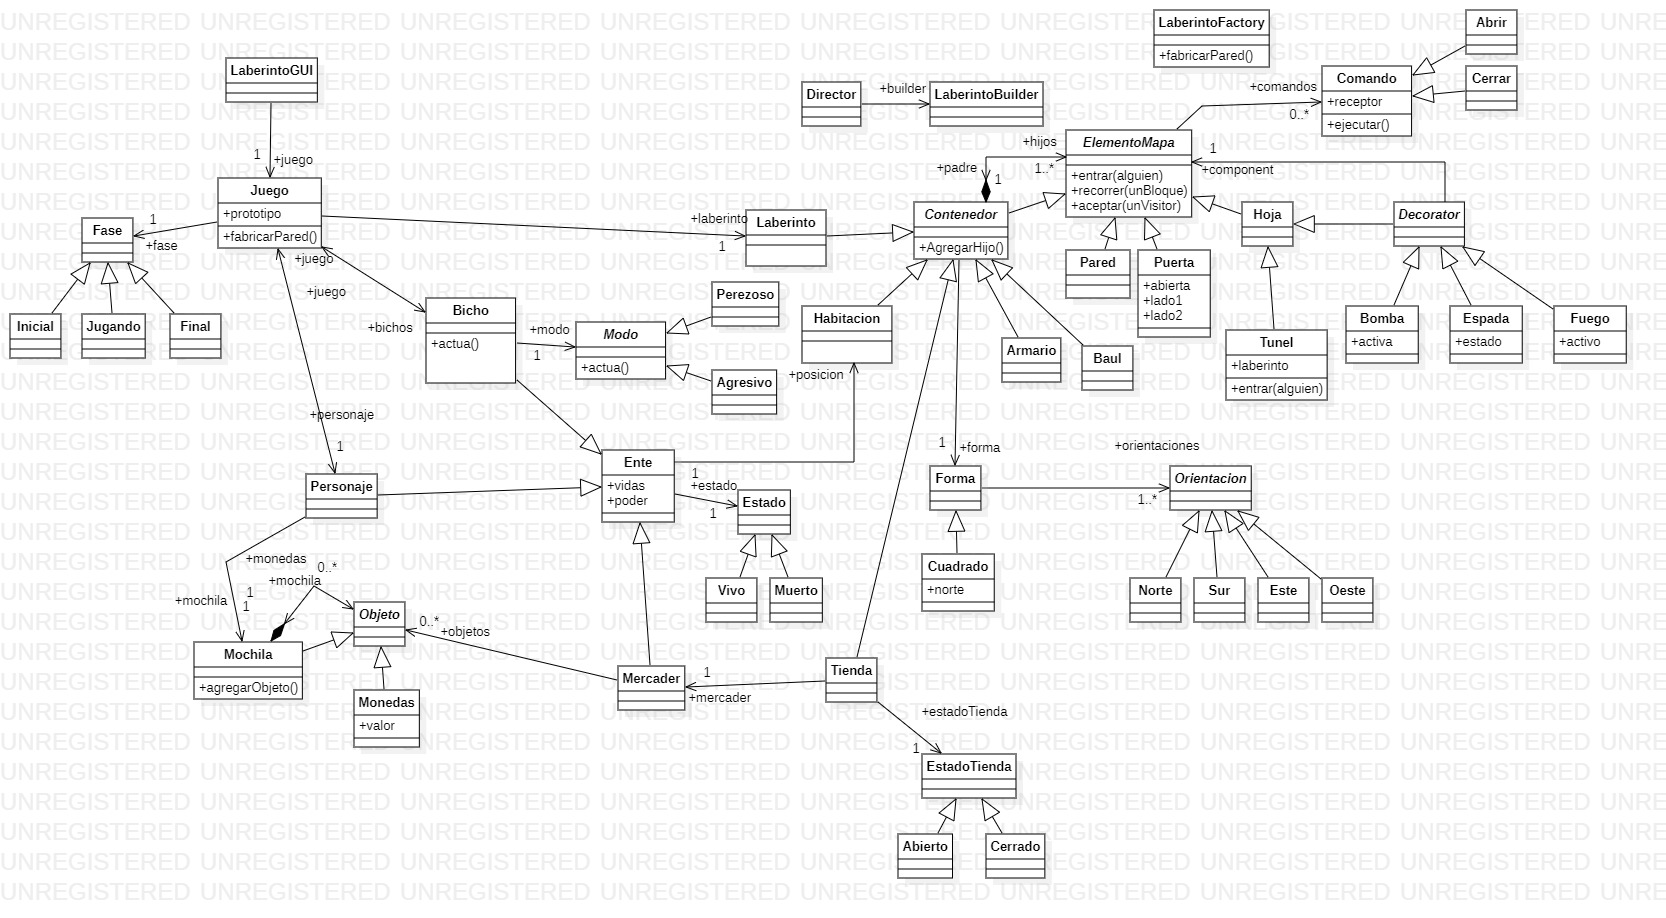
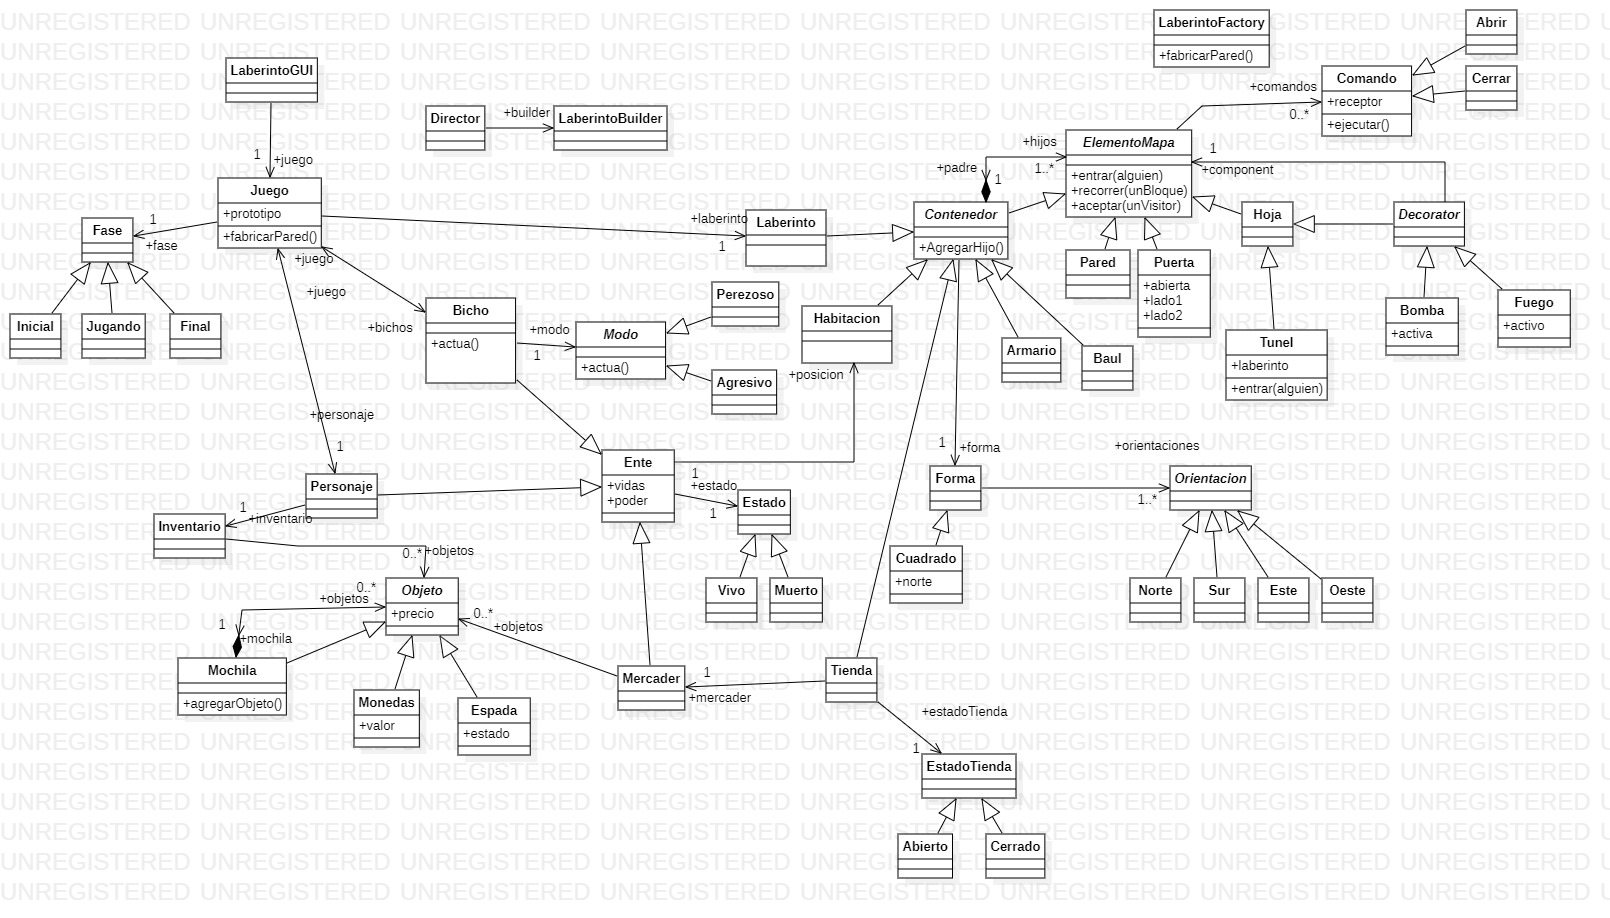
Cambios del playground por Rombo

diff --git a/Playground.py b/Playground.py
@@ -1,3 +1,4 @@
+from src.model.Cuadrado import Cuadrado
 from src.model.Final import Final
 from src.model.Abrir import Abrir
 from src.model.Director import Director
@@ -194,31 +195,58 @@ while True:
                     print("¿Que puerta quieres abrir",personaje.nickname,'?')
                     print("El personaje esta en la habitacion: ",personaje.posicion.num)
                     print(personaje.posicion)
-                    puerta = input("1. Puerta Norte\n2. Puerta Sur\n3. Puerta Este\n4. Puerta Oeste\n")
-                    puerta = int(puerta)
-                    if puerta == 1:
-                        if juego.personaje.posicion.forma.norte.esPuerta():
-                            juego.personaje.posicion.forma.norte.comandos[0].ejecutar(juego.personaje)
+                    if isinstance(personaje.posicion.forma,Cuadrado):
+                        puerta = input("1. Puerta Norte\n2. Puerta Sur\n3. Puerta Este\n4. Puerta Oeste\n")
+                        puerta = int(puerta)
+                        if puerta == 1:
+                            if juego.personaje.posicion.forma.norte.esPuerta():
+                                juego.personaje.posicion.forma.norte.comandos[0].ejecutar(juego.personaje)
+                            else:
+                                print("No hay puerta en esa dirección")
+                        elif puerta == 2:
+                            if juego.personaje.posicion.forma.sur.esPuerta():
+                                juego.personaje.posicion.forma.sur.comandos[0].ejecutar(juego.personaje)
+                            else:
+                                print("No hay puerta en esa dirección")
+                        
+                        elif puerta == 3:
+                            if juego.personaje.posicion.forma.este.esPuerta():
+                                juego.personaje.posicion.forma.este.comandos[0].ejecutar(juego.personaje)
+                            else:
+                                print("No hay puerta en esa dirección")                        
+                        elif puerta == 4:
+                            if juego.personaje.posicion.forma.oeste.esPuerta():
+                                juego.personaje.posicion.forma.oeste.comandos[0].ejecutar(juego.personaje)
+                            else:
+                                print("No hay puerta en esa dirección")
                         else:
-                            print("No hay puerta en esa dirección")
-                    elif puerta == 2:
-                        if juego.personaje.posicion.forma.sur.esPuerta():
-                            juego.personaje.posicion.forma.sur.comandos[0].ejecutar(juego.personaje)
-                        else:
-                            print("No hay puerta en esa dirección")
-                       
-                    elif puerta == 3:
-                        if juego.personaje.posicion.forma.este.esPuerta():
-                            juego.personaje.posicion.forma.este.comandos[0].ejecutar(juego.personaje)
-                        else:
-                            print("No hay puerta en esa dirección")                        
-                    elif puerta == 4:
-                        if juego.personaje.posicion.forma.oeste.esPuerta():
-                            juego.personaje.posicion.forma.oeste.comandos[0].ejecutar(juego.personaje)
-                        else:
-                            print("No hay puerta en esa dirección")
+                            print("\n\nOpción no válida.\n\n")
                     else:
-                        print("\n\nOpción no válida.\n\n")
+                        puerta = input("1. Puerta Noreste\n2. Puerta Sureste\n3. Puerta Suroeste\n4. Puerta Noroeste\n")
+                        puerta = int(puerta)
+                        if puerta == 1:
+                            if juego.personaje.posicion.forma.noreste.esPuerta():
+                                juego.personaje.posicion.forma.noreste.comandos[0].ejecutar(juego.personaje)
+                            else:
+                                print("No hay puerta en esa dirección")
+                        elif puerta == 2:
+                            if juego.personaje.posicion.forma.sureste.esPuerta():
+                                juego.personaje.posicion.forma.sureste.comandos[0].ejecutar(juego.personaje)
+                            else:
+                                print("No hay puerta en esa dirección")
+                        
+                        elif puerta == 3:
+                            if juego.personaje.posicion.forma.suroeste.esPuerta():
+                                juego.personaje.posicion.forma.suroeste.comandos[0].ejecutar(juego.personaje)
+                            else:
+                                print("No hay puerta en esa dirección")                        
+                        elif puerta == 4:
+                            if juego.personaje.posicion.forma.noroeste.esPuerta():
+                                juego.personaje.posicion.forma.noroeste.comandos[0].ejecutar(juego.personaje)
+                            else:
+                                print("No hay puerta en esa dirección")
+                        else:
+                            print("\n\nOpción no válida.\n\n")                        
                 else:
                     print("No hay ningun personaje en el laberinto")
                 print(juego)
@@ -226,17 +254,30 @@ while True:
                 if juego.personaje != None:
                     print("¿A donde quieres mover a ",personaje.nickname,'?')
                     print("El personaje esta en la habitacion: ",personaje.posicion)
-                    direccion = input("W. Norte\nS. Sur\nD. Este\nA. Oeste\n")
-                    if direccion == 'W' or direccion == 'w':
-                        juego.personaje.irAlNorte()
-                    elif direccion == 'S' or direccion == 's':
-                        juego.personaje.irAlSur()
-                    elif direccion == 'D' or direccion == 'd':
-                        juego.personaje.irAlEste()
-                    elif direccion == 'A' or direccion == 'a':
-                        juego.personaje.irAlOeste()
+                    if isinstance(personaje.posicion.forma,Cuadrado):
+                        direccion = input("W. Norte\nS. Sur\nD. Este\nA. Oeste\n")
+                        if direccion == 'W' or direccion == 'w':
+                            juego.personaje.irAlNorte()
+                        elif direccion == 'S' or direccion == 's':
+                            juego.personaje.irAlSur()
+                        elif direccion == 'D' or direccion == 'd':
+                            juego.personaje.irAlEste()
+                        elif direccion == 'A' or direccion == 'a':
+                            juego.personaje.irAlOeste()
+                        else:
+                            print("\n\nOpción no válida.\n\n")
                     else:
-                        print("\n\nOpción no válida.\n\n")
+                        direccion = input("E. Noreste\nD. Sureste\nS. Suroeste\nW. Noroeste\n")
+                        if direccion == 'E' or direccion == 'e':
+                            juego.personaje.irAlNoreste()
+                        elif direccion == 'D' or direccion == 'd':
+                            juego.personaje.irAlSureste()
+                        elif direccion == 'S' or direccion == 's':
+                            juego.personaje.irAlSuroeste()
+                        elif direccion == 'W' or direccion == 'w':
+                            juego.personaje.irAlNoroeste()
+                        else:
+                            print("\n\nOpción no válida.\n\n")
                 else:
                     print("No hay ningun personaje en el laberinto")
                 print(juego)

diff --git a/src/model/Ente.py b/src/model/Ente.py
@@ -49,3 +49,20 @@ class Ente():
     def irAlSur(self):
         print(self, "yendo al Sur")
         self.irA(self.juego.fabricarSur())
+
+    def irAlNoreste(self):
+        print(self, "yendo al Noreste")
+        self.irA(self.juego.fabricarNoreste())
+    
+    def irAlNoroeste(self):
+        print(self, "yendo al Noroeste")
+        self.irA(self.juego.fabricarNoroeste())
+
+    def irAlSureste(self):
+        print(self, "yendo al Sureste")
+        self.irA(self.juego.fabricarSureste())
+    
+    def irAlSuroeste(self):
+        print(self, "yendo al Suroeste")
+        self.irA(self.juego.fabricarSuroeste())
+    

diff --git a/src/model/Suroeste.py b/src/model/Suroeste.py
@@ -1,7 +1,14 @@
 from src.model.Orientacion import Orientacion
 
 
-class Suroeste(Orientacion):
+class Suroeste(Orientacion): 
+    UnicaInstancia = None
+
+    def __new__(cls):
+        if cls.UnicaInstancia is None:
+            cls.UnicaInstancia = super().__new__(cls)
+        return cls.UnicaInstancia
+    
     def ir(self,alguien):
         contenedor = alguien.posicion.forma
         contenedor.suroeste.entrar(alguien)

diff --git a/src/model/Noroeste.py b/src/model/Noroeste.py
@@ -2,6 +2,13 @@ from src.model.Orientacion import Orientacion
 
 
 class Noroeste(Orientacion):
+    UnicaInstancia = None
+
+    def __new__(cls):
+        if cls.UnicaInstancia is None:
+            cls.UnicaInstancia = super().__new__(cls)
+        return cls.UnicaInstancia
+    
     def ir(self,alguien):
         contenedor = alguien.posicion.forma
         contenedor.noroeste.entrar(alguien)

diff --git a/src/model/Noreste.py b/src/model/Noreste.py
@@ -2,6 +2,13 @@ from src.model.Orientacion import Orientacion
 
 
 class Noreste(Orientacion):
+    UnicaInstancia = None
+
+    def __new__(cls):
+        if cls.UnicaInstancia is None:
+            cls.UnicaInstancia = super().__new__(cls)
+        return cls.UnicaInstancia
+    
     def ir(self,alguien):
         contenedor = alguien.posicion.forma
         contenedor.noreste.entrar(alguien)

diff --git a/src/model/Sureste.py b/src/model/Sureste.py
@@ -2,6 +2,13 @@ from src.model.Orientacion import Orientacion
 
 
 class Sureste(Orientacion):
+    UnicaInstancia = None
+
+    def __new__(cls):
+        if cls.UnicaInstancia is None:
+            cls.UnicaInstancia = super().__new__(cls)
+        return cls.UnicaInstancia
+    
     def ir(self,alguien):
         contenedor = alguien.posicion.forma
         contenedor.sureste.entrar(alguien)
